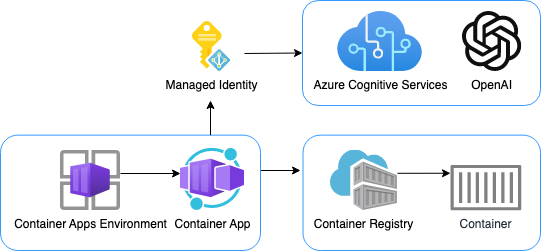
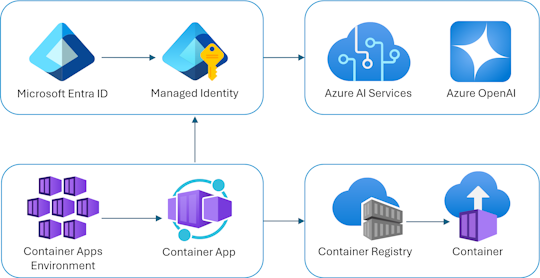
Changed to use chainedcred

Changed region(s): [[0.0, 0.3625, 1.0, 1.0], [0.0296, 0.0, 1.0, 0.4462], [0.0, 0.0, 0.4741, 0.0558]]

diff --git a/src/quartapp/chat.py b/src/quartapp/chat.py
@@ -2,6 +2,13 @@ import json
 import os
 
 import azure.identity.aio
+from azure.identity.aio import (
+    AzureDeveloperCliCredential, 
+    ChainedTokenCredential, 
+    ManagedIdentityCredential, 
+    get_bearer_token_provider
+)
+from typing import Union
 from openai import AsyncAzureOpenAI
 from quart import (
     Blueprint,
@@ -17,26 +24,52 @@ bp = Blueprint("chat", __name__, template_folder="templates", static_folder="sta
 
 @bp.before_app_serving
 async def configure_openai():
-    # Authenticate using the default Azure credential chain
-    # See https://docs.microsoft.com/azure/developer/python/azure-sdk-authenticate#defaultazurecredential
-    # This will *not* work inside a local Docker container.
-    # If using managed user-assigned identity, make sure that AZURE_CLIENT_ID is set
-    # to the client ID of the user-assigned identity.
-    current_app.logger.info("Using Azure OpenAI with default credential")
-    default_credential = azure.identity.aio.DefaultAzureCredential(exclude_shared_token_cache_credential=True)
-    token_provider = azure.identity.aio.get_bearer_token_provider(
-        default_credential, "https://cognitiveservices.azure.com/.default"
+    # Configure Environment Variables
+    AZURE_TENANT_ID = os.getenv("AZURE_TENANT_ID")
+    AZURE_CLIENT_ID = os.getenv("AZURE_CLIENT_ID")
+
+    # Check if AZURE_CLIENT_ID is set
+    if not AZURE_CLIENT_ID:
+        raise ValueError("AZURE_CLIENT_ID is required for Authentication.") 
+    
+    # Check if AZURE_TENANT_ID is set, 
+    # If not set, use AzureDeveloperCliCredential with the default tenant.
+    if not AZURE_TENANT_ID:
+        azure_developer_cli_credential = AzureDeveloperCliCredential(tenant_id=AZURE_TENANT_ID, process_timeout=60)
+    else:
+        azure_developer_cli_credential = AzureDeveloperCliCredential(process_timeout=60)
+
+    # Create a ChainedTokenCredential with ManagedIdentityCredential and AzureDeveloperCliCredential
+    #  - ManagedIdentityCredential is used for Azure Functions and Azure App Service
+    #       This is a user-assigned managed identity. User-assigned managed identities are supported by passing the client_id to ManagedIdentityCredential
+    #  - AzureDeveloperCliCredential is used for local development
+    # The order of the credentials is important, as the first valid token is used
+    # for more information check out: 
+    # https://learn.microsoft.com/azure/developer/python/sdk/authentication/credential-chains?tabs=ctc#chainedtokencredential-overview
+    azure_credential = ChainedTokenCredential(
+    ManagedIdentityCredential(client_id=AZURE_CLIENT_ID),
+    azure_developer_cli_credential
+    )
+#TODO: link to managed identity docs ManagedIdentityCredential
+    current_app.logger.info("Using Azure OpenAI with credential")
+    
+    # Get the token provider for Azure OpenAI based on the selected Azure credential
+    token_provider = get_bearer_token_provider(
+        azure_credential, "https://cognitiveservices.azure.com/.default"
     )
     if not os.getenv("AZURE_OPENAI_ENDPOINT"):
         raise ValueError("AZURE_OPENAI_ENDPOINT is required for Azure OpenAI")
-    if not os.getenv("AZURE_OPENAI_CHATGPT_DEPLOYMENT"):
-        raise ValueError("AZURE_OPENAI_CHATGPT_DEPLOYMENT is required for Azure OpenAI")
+    if not os.getenv("AZURE_OPENAI_CHAT_DEPLOYMENT"):
+        raise ValueError("AZURE_OPENAI_CHAT_DEPLOYMENT is required for Azure OpenAI")
+    
+    # Create the Asynchronous Azure OpenAI client
     bp.openai_client = AsyncAzureOpenAI(
         api_version=os.getenv("AZURE_OPENAI_API_VERSION") or "2024-02-15-preview",
         azure_endpoint=os.getenv("AZURE_OPENAI_ENDPOINT"),
         azure_ad_token_provider=token_provider,
     )
-    bp.openai_model = os.getenv("AZURE_OPENAI_CHATGPT_DEPLOYMENT")
+    # Set the model name to the Azure OpenAI model deployment name
+    bp.openai_model = os.getenv("AZURE_OPENAI_CHAT_DEPLOYMENT")
 
 
 @bp.after_app_serving

diff --git a/tests/test_app.py b/tests/test_app.py
@@ -47,7 +47,7 @@ async def test_chat_stream_text_history(client, snapshot):
 async def test_openai_managedidentity(monkeypatch):
     monkeypatch.setenv("AZURE_OPENAI_CLIENT_ID", "test-client-id")
     monkeypatch.setenv("AZURE_OPENAI_ENDPOINT", "test-openai-service.openai.azure.com")
-    monkeypatch.setenv("AZURE_OPENAI_CHATGPT_DEPLOYMENT", "test-chatgpt")
+    monkeypatch.setenv("AZURE_OPENAI_CHAT_DEPLOYMENT", "test-chatgpt")
     monkeypatch.setenv("AZURE_OPENAI_VERSION", "2023-10-01-preview")
 
     monkeypatch.setattr("azure.identity.aio.ManagedIdentityCredential", mock_cred.MockAzureCredential)

diff --git a/tests/conftest.py b/tests/conftest.py
@@ -129,7 +129,7 @@ def mock_defaultazurecredential(monkeypatch):
 @pytest_asyncio.fixture
 async def client(monkeypatch, mock_openai_chatcompletion, mock_defaultazurecredential):
     monkeypatch.setenv("AZURE_OPENAI_ENDPOINT", "test-openai-service.openai.azure.com")
-    monkeypatch.setenv("AZURE_OPENAI_CHATGPT_DEPLOYMENT", "test-chatgpt")
+    monkeypatch.setenv("AZURE_OPENAI_CHAT_DEPLOYMENT", "test-chatgpt")
 
     quart_app = quartapp.create_app(testing=True)
 

diff --git a/docs/deploy_existing.md b/docs/deploy_existing.md
@@ -27,7 +27,7 @@ If you don't want to deploy a new Azure OpenAI resource and just want to use an 
 
 ```shell
 azd env set CREATE_AZURE_OPENAI false
-azd env set AZURE_OPENAI_CHATGPT_DEPLOYMENT gpt-35-turbo
+azd env set AZURE_OPENAI_CHAT_DEPLOYMENT gpt-35-turbo
 azd env set AZURE_OPENAI_ENDPOINT https://YOUR-ENDPOINT-HERE
 ```
 
